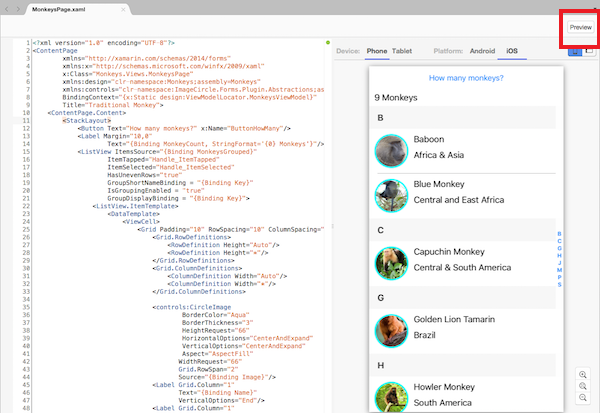
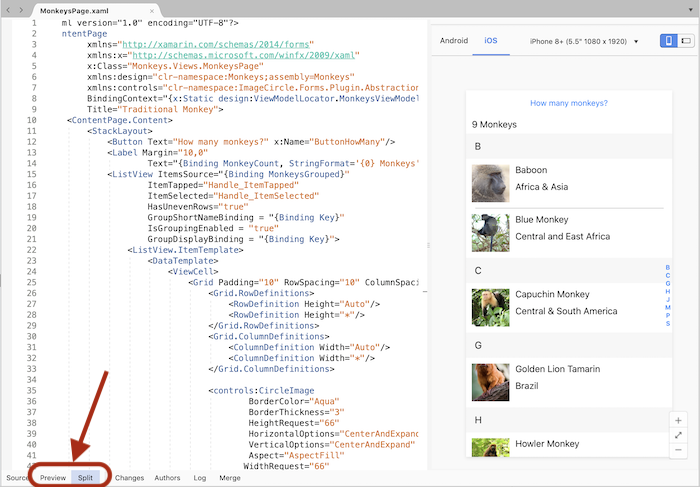
[previewer] update for new preview button location
fixes https://github.com/MicrosoftDocs/xamarin-docs/issues/1888

diff --git a/docs/xamarin-forms/xaml/xaml-previewer/index.md b/docs/xamarin-forms/xaml/xaml-previewer/index.md
@@ -45,9 +45,12 @@ You can change whether the screen is split vertically or horizontally, or collap
 
 ### Visual Studio for Mac
 
-The **Preview** button is displayed on the editor when you open a XAML page. Show or hide the Previewer by pressing the **Preview** button in the top-right corner of any XAML document window:
+The **Preview** button is displayed on the editor when you open a XAML page. Show or hide the Previewer by pressing the **Preview** or **Split** buttons in the bottom-left of any XAML document window:
 
-[![Xamarin.Forms Previewer in Visual Studio for Mac](xaml-previewer-images/xamlp-list-sml.png "Xamarin.Forms Previewer in Visual Studio for Mac")](xaml-previewer-images/xamlp-list.png#lightbox)
+[![Xamarin.Forms Previewer enabled with the preview or split button](xaml-previewer-images/xamlp-list-sml.png)](xaml-previewer-images/xamlp-list.png#lightbox)
+
+> [!NOTE]
+> In older versions of Visual Studio for Mac, the **Preview** button was located in the top-right of the window.
 
 ::: zone-end
 
